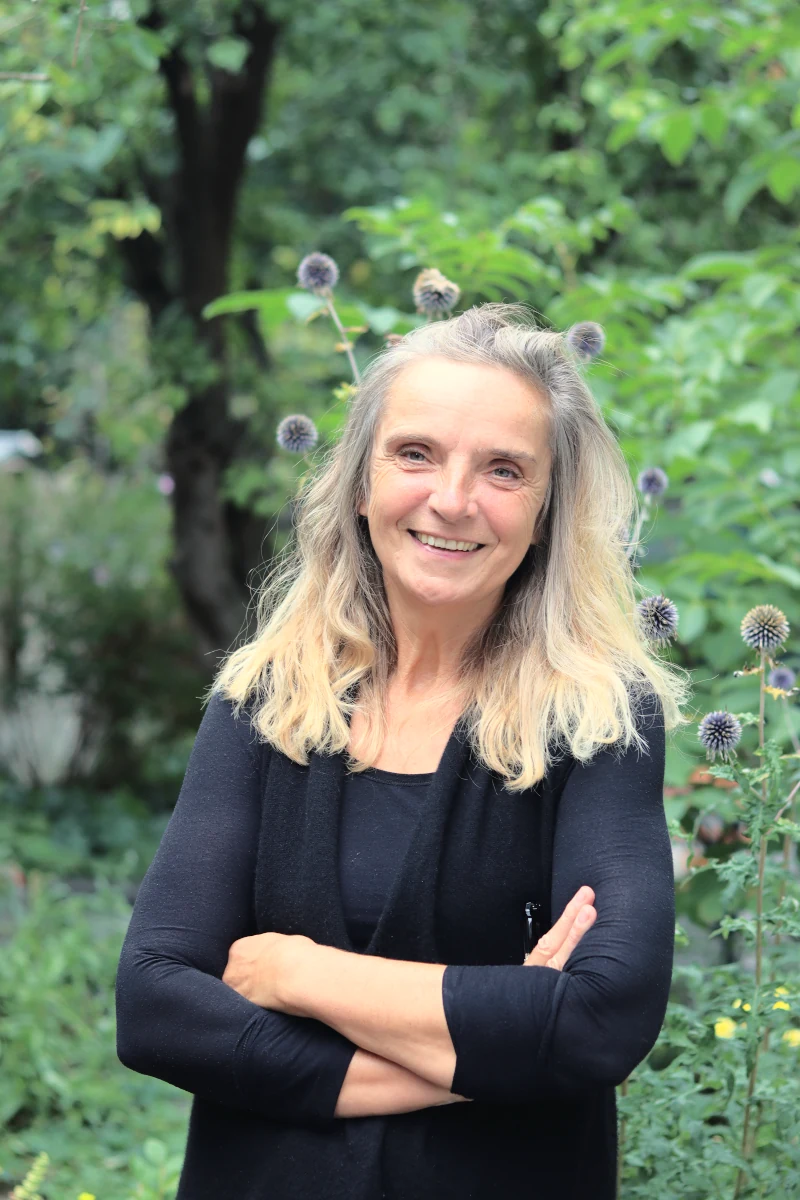
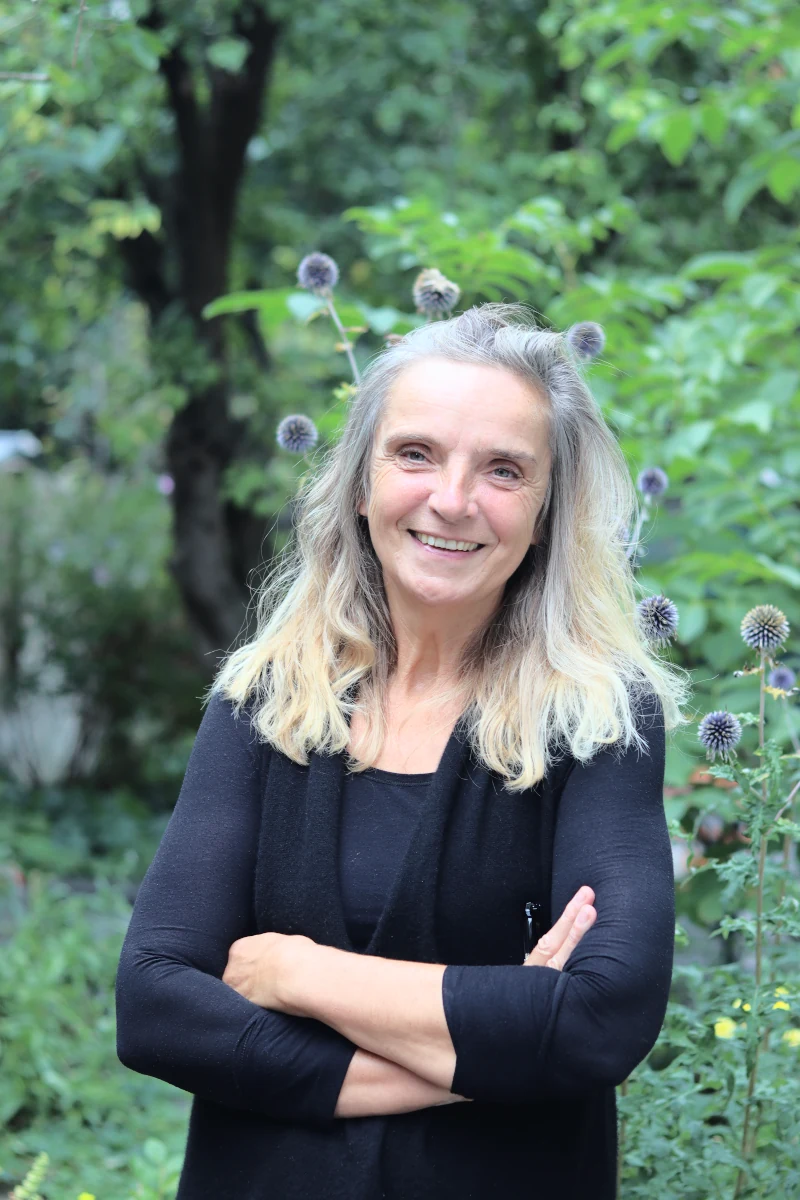
fix(team): portraits graded as Codex graded the site's photographs
Rahman: the portraits' filter is not what Codex used for the other images. The
first grade put the shared warm shift on top of the camera's colour, so whites
went yellow (b* +7 to +12; Mareike's white blouse read cream). build_reel.py
measures each photo's white balance on its own neutrals (a white wall) and
then warms it; the published photos end with whites near neutral, b* about +1.
Each portrait is now neutralised on its own light neutrals and warmed until its
whites reach b* +2.5, with the same tone curve and chroma.

diff --git a/scripts/media/build_team_portraits.py b/scripts/media/build_team_portraits.py
@@ -1,10 +1,16 @@
 """Build the team portraits (public/media/casa/team/) from CASA's 2026-09-10 team shoot.
 
 Each portrait is the colleague's own photograph — the file Rahman named after them, or the frame he
-chose (Meike: IMG_0342, 2026-10-27) — cropped where a recipe says so, resized, and given the site's
-warm editorial grade from build_reel.py: the shared warm white balance, the tone curve to
-EDITORIAL_TONE and EDITORIAL_CHROMA. Global light and colour only; nothing is retouched, moved or
-generated (CLAUDE.md hard rules 3 and 4).
+chose (Meike: IMG_0342, 2026-10-27) — cropped where a recipe says so, resized, and graded the way
+build_reel.py grades the site's photographs (Codex's warm editorial pass, 2026-10-08): the white
+balance measured on the picture's own light neutrals — there a white wall, here a white collar or a
+pale background — then warmed, the tone curve to EDITORIAL_TONE, and EDITORIAL_CHROMA. Global light and
+colour only; nothing is retouched, moved or generated (CLAUDE.md hard rules 3 and 4).
+
+WARMTH. The first grade put the shared warm shift on top of the camera's own colour, so whites went
+yellow (b* +7 to +12; a white blouse read cream). The site's photographs end with their whites near
+neutral, b* about +1 (from -4 to +6, measured on the published files 2026-10-27). Each portrait is
+neutralised on its own light neutrals and then warmed until its whites reach WHITE_B, the same place.
 
 SHARPNESS. The first set (1000px, WebP quality 82) went through the image server, which re-encoded it
 at quality 75 and lost about half its fine detail: skin read plastic, hair soft. Even at quality 90 the
@@ -34,7 +40,8 @@ OUT = REPO / 'public/media/casa/team'
 WIDTH = 800
 QUALITY = 88
 
-GRADE = {'wb': warm((1.0, 1.0, 1.0)), 'tone': EDITORIAL_TONE, 'chroma': EDITORIAL_CHROMA}
+# Where a portrait's whites end, as on the site's photographs (b* of the light near-neutral pixels).
+WHITE_B = 2.5
 
 # slug: the original, and a box (x, y, width, height in the upright original) where the frame needs one.
 PORTRAITS = {
@@ -57,6 +64,36 @@ PORTRAITS = {
 }
 
 
+def whites(rgb: np.ndarray) -> tuple[np.ndarray, np.ndarray]:
+    """The light near-neutral pixels (L* over 60, chroma under 14) and their Lab values."""
+    lab = cv2.cvtColor(rgb, cv2.COLOR_RGB2LAB)
+    mask = (lab[..., 0] > 60) & (np.hypot(lab[..., 1], lab[..., 2]) < 14)
+    return mask, lab
+
+
+def grade(small: np.ndarray) -> np.ndarray:
+    """Neutral on its own whites, then warmed until they read as the site's do (WHITE_B)."""
+    mask, _ = whites(small)
+    neutral = small[mask].mean(axis=0) if mask.sum() > 500 else np.ones(3, np.float32)
+    gains = neutral[1] / neutral
+
+    def graded(strength: float) -> np.ndarray:
+        r, g, b = warm((1.0, 1.0, 1.0))
+        wb = gains * np.array([r ** strength, g, b ** strength], np.float32)
+        return correct(small, {'wb': tuple(wb), 'tone': EDITORIAL_TONE, 'chroma': EDITORIAL_CHROMA})
+
+    low, high = 0.0, 1.5
+    for _ in range(12):
+        mid = (low + high) / 2
+        out = graded(mid).astype(np.float32) / 255.0
+        mask, lab = whites(out)
+        if not mask.any() or lab[..., 2][mask].mean() > WHITE_B:
+            high = mid
+        else:
+            low = mid
+    return graded(low)
+
+
 def render(recipe: dict) -> np.ndarray:
     rgb = load(SOURCE / recipe['file'])
     h, w = rgb.shape[:2]
@@ -68,7 +105,7 @@ def render(recipe: dict) -> np.ndarray:
     # Resized first (only ever down), then graded: the grade is global, so the order changes nothing visible.
     size = (WIDTH, round(rgb.shape[0] * WIDTH / rgb.shape[1]))
     small = cv2.resize(rgb, size, interpolation=cv2.INTER_AREA).astype(np.float32) / 255.0
-    return correct(small, GRADE)
+    return grade(small)
 
 
 def main() -> None:
